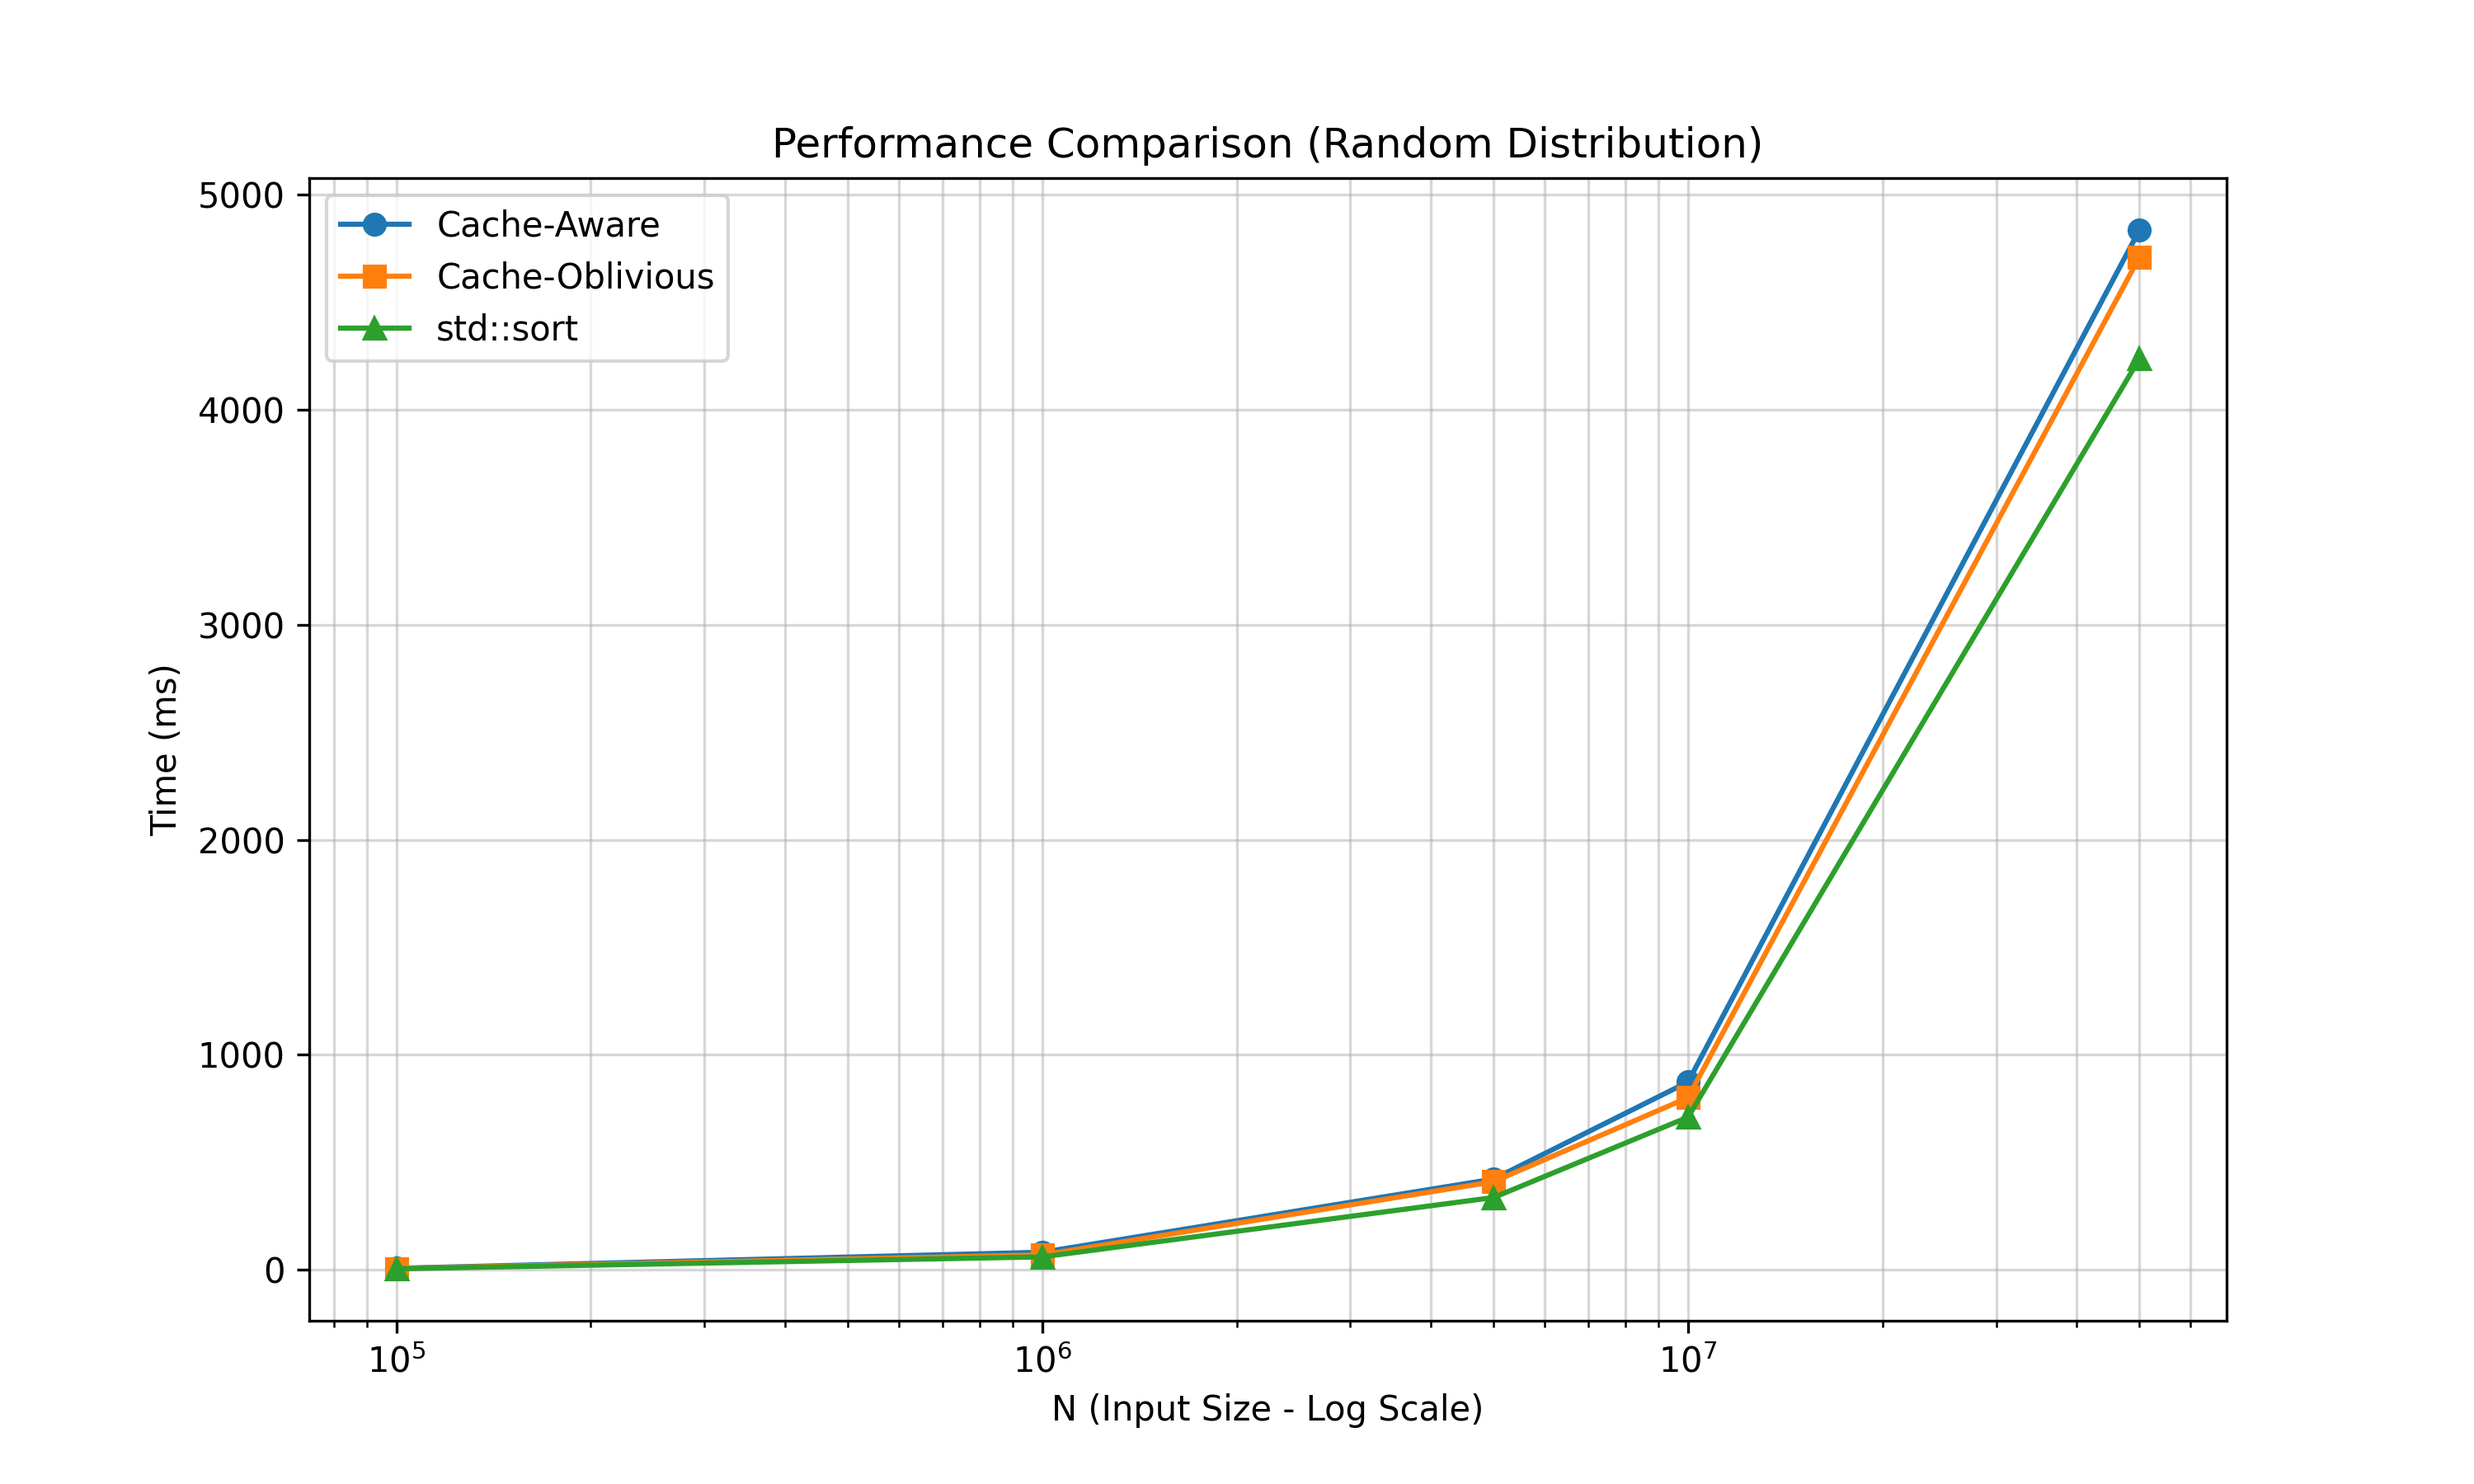
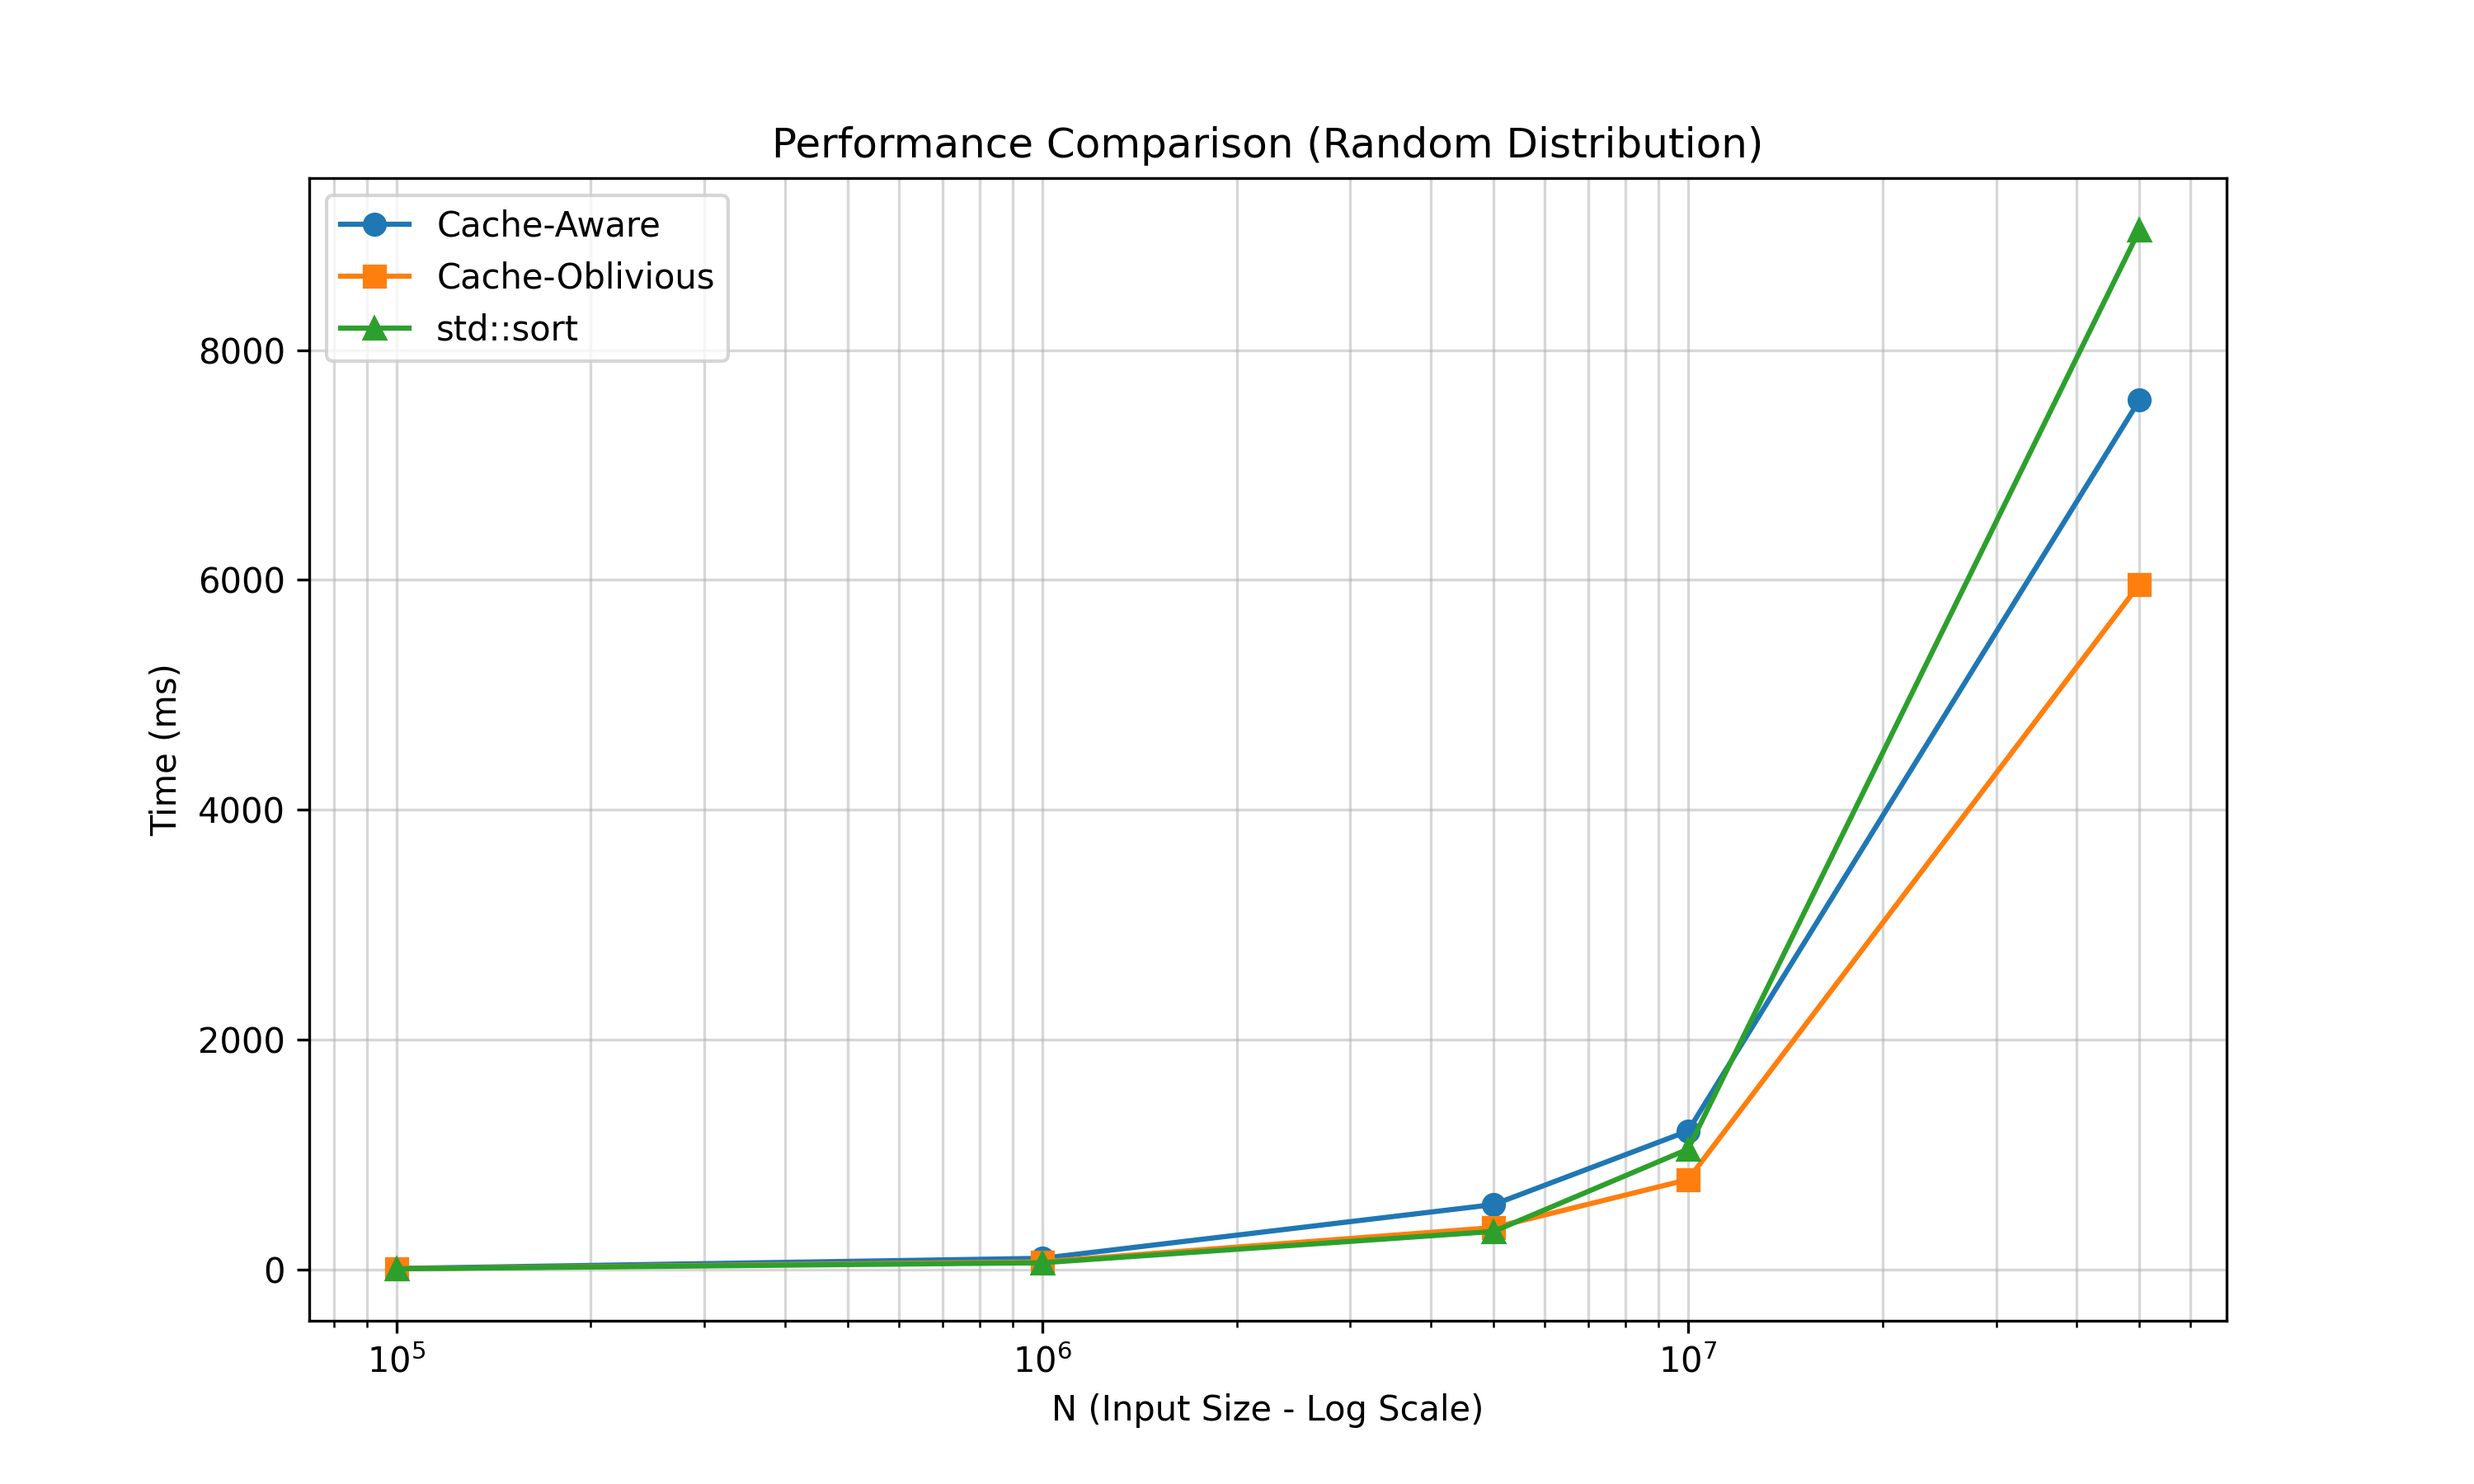
graphs added

diff --git a/helper_files/generate-plots.py b/helper_files/generate-plots.py
@@ -1,74 +1,65 @@
 import matplotlib.pyplot as plt
 import numpy as np
 
-# --- 1. DATA SETUP (From your benchmark output) ---
+# --- 1. DATA SETUP ---
 n_values = [100000, 1000000, 5000000, 10000000, 50000000]
 
 # Times in ms for "Random Distribution"
-ca_random = [7.19, 82.00, 422.25, 873.91, 4836.27]
-co_random = [6.29, 69.34, 410.05, 801.01, 4710.79]
-std_random = [4.80, 60.29, 336.40, 710.28, 4237.74]
+ca_random = [8.15, 96.57, 564.28, 1204.28, 7565.43]
+co_random = [5.83, 65.63, 363.99, 781.75, 5961.96]
+std_random = [5.13, 57.85, 330.55, 1046.30, 9044.58]
 
 # Times in ms for "Nearly-Sorted Distribution"
-ca_nearly_sorted = [4.77, 62.69, 360.18, 1036.94, 4032.16]
-co_nearly_sorted = [3.25, 43.74, 366.45, 626.21, 3396.61]
-std_nearly_sorted = [1.02, 11.66, 106.16, 165.16, 902.95]
+ca_nearly_sorted = [8.75, 443.14, 534.60, 1064.27, 6306.96]
+co_nearly_sorted = [7.62, 94.05, 629.67, 1465.74, 8195.06]
+std_nearly_sorted = [1.65, 21.89, 164.73, 371.17, 2271.45]
 
 # --- 2. LINE CHART (N vs Time - Random Distribution) ---
-plt.figure(figsize=(10, 6))
-plt.plot(n_values, ca_random, marker='o', label='Cache-Aware')
-plt.plot(n_values, co_random, marker='s', label='Cache-Oblivious')
-plt.plot(n_values, std_random, marker='^', label='std::sort')
+fig1, ax1 = plt.subplots(figsize=(10, 6))
+ax1.plot(n_values, ca_random, marker='o', label='Cache-Aware')
+ax1.plot(n_values, co_random, marker='s', label='Cache-Oblivious')
+ax1.plot(n_values, std_random, marker='^', label='std::sort')
 
-plt.xscale('log')
-plt.xlabel('N (Input Size - Log Scale)')
-plt.ylabel('Time (ms)')
-plt.title('Performance Comparison (Random Distribution)')
-plt.legend()
-plt.grid(True, which="both", ls="-", alpha=0.5)
+ax1.set_xscale('log')
+ax1.set_xlabel('N (Input Size - Log Scale)')
+ax1.set_ylabel('Time (ms)')
+ax1.set_title('Performance Comparison (Random Distribution)')
+ax1.legend()
+ax1.grid(True, which="both", ls="-", alpha=0.5)
 plt.savefig('line_chart.png', dpi=300)
-print("Saved: line_chart.png")
-plt.show()
 
 # --- 3. LINE CHART (N vs Time - Nearly-Sorted Distribution) ---
-plt.figure(figsize=(10, 6))
-plt.plot(n_values, ca_nearly_sorted, marker='o', label='Cache-Aware')
-plt.plot(n_values, co_nearly_sorted, marker='s', label='Cache-Oblivious')
-plt.plot(n_values, std_nearly_sorted, marker='^', label='std::sort')
+fig2, ax2 = plt.subplots(figsize=(10, 6))
+ax2.plot(n_values, ca_nearly_sorted, marker='o', label='Cache-Aware')
+ax2.plot(n_values, co_nearly_sorted, marker='s', label='Cache-Oblivious')
+ax2.plot(n_values, std_nearly_sorted, marker='^', label='std::sort')
 
-plt.xscale('log')
-plt.xlabel('N (Input Size - Log Scale)')
-plt.ylabel('Time (ms)')
-plt.title('Performance Comparison (Nearly-Sorted Distribution)')
-plt.legend()
-plt.grid(True, which="both", ls="-", alpha=0.5)
+ax2.set_xscale('log')
+ax2.set_xlabel('N (Input Size - Log Scale)')
+ax2.set_ylabel('Time (ms)')
+ax2.set_title('Performance Comparison (Nearly-Sorted Distribution)')
+ax2.legend()
+ax2.grid(True, which="both", ls="-", alpha=0.5)
 plt.savefig('line_chart_nearly_sorted.png', dpi=300)
-print("Saved: line_chart_nearly_sorted.png")
-plt.show()
 
 # --- 4. BAR CHART (Comparison at N=10M) ---
-# Data for N=10M
-# Random: [CA: 873.91, CO: 801.01, std: 710.28]
-# Nearly-Sorted: [CA: 1036.94, CO: 626.21, std: 165.16]
 distributions = ['Random', 'Nearly-Sorted']
-ca_vals = [873.91, 1036.94]
-co_vals = [801.01, 626.21]
-std_vals = [710.28, 165.16]
+ca_vals = [1204.28, 1064.27]
+co_vals = [781.75, 1465.74]
+std_vals = [1046.30, 371.17]
 
 x = np.arange(len(distributions))
 width = 0.25 
 
-fig, ax = plt.subplots(figsize=(10, 6))
-ax.bar(x - width, ca_vals, width, label='Cache-Aware')
-ax.bar(x, co_vals, width, label='Cache-Oblivious')
-ax.bar(x + width, std_vals, width, label='std::sort')
+fig3, ax3 = plt.subplots(figsize=(10, 6))
+ax3.bar(x - width, ca_vals, width, label='Cache-Aware')
+ax3.bar(x, co_vals, width, label='Cache-Oblivious')
+ax3.bar(x + width, std_vals, width, label='std::sort')
 
-ax.set_ylabel('Time (ms)')
-ax.set_title('Performance Comparison at N=10M')
-ax.set_xticks(x)
-ax.set_xticklabels(distributions)
-ax.legend()
+ax3.set_ylabel('Time (ms)')
+ax3.set_title('Performance Comparison at N=10M')
+ax3.set_xticks(x)
+ax3.set_xticklabels(distributions)
+ax3.legend()
 
 plt.savefig('bar_chart.png', dpi=300)
-print("Saved: bar_chart.png")
-plt.show()
